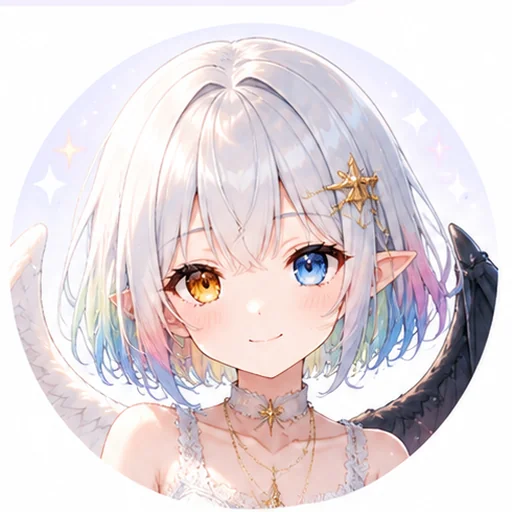
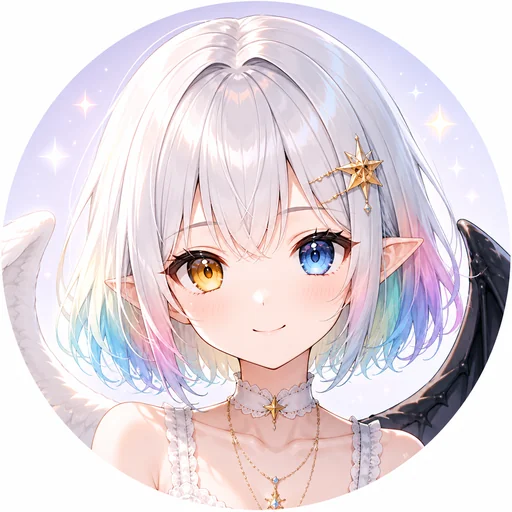
Phase17: ケイオスちゃんの表情アイコン5種類を追加
ご提供いただいた5枚の表情イラスト(通常/笑顔/考える/応援/安心)を
使い、ケイオスちゃん本人の発言に隣接する丸アイコンを場面に応じて
切り替えるようにした。

- img/koufuku/kaosu-face-{normal,smile,thinking,cheer,relax}.webp
  を追加(各512x512、約40〜46KB)。normalは今回いただいたより統一感の
  あるトリミングのものに差し替え、他4枚も同じ構図・サイズで揃えた。
- 固定メッセージ(今日のつながり/今日の幸せ設計/未来への小さな一歩/
  未来の芽/各画面の空状態/最近のわたし/わたしへのヒント)は、
  ご指示の「HTML側でdata-kaosu-expressionを指定する方法を優先」に
  従い、該当imgのsrc/data-kaosu-expression属性を直接書き換えるだけの
  静的な割り当てにした。
- 状況によって変わる箇所は最小限のJSで動的に切り替え:
  ・「今のあなたへ」: 深夜帯はrelax、傾向に気づけた時はsmile、
    それ以外はnormal(キーワード判定ではなく、既存の時間帯/カテゴリ
    分岐をそのまま利用)
  ・「今日の一歩」: 提案時はnormal、やってみた直後はcheer、
    気持ち選択後はsmile、「今日は何もしない」を選ぶとrelax
  切り替え用に setKaosuExpression() / setKaosuExpressionNear() という
  小さなヘルパーを2つ追加しただけで、既存の描画関数の構造は変えていない。
- 話し方設定(koufukuAiSpeechStyleV1)とは完全に独立させ、話し方×表情の
  どの組み合わせでも同じ画像をそのまま使える構造にした(値の保存は
  行わず、表情は毎回の描画で決めるだけの一時状態)。
- 名前登録オンボーディングのアバター(56px、kaosu.png)は対象外のまま
  維持。ヒーロー画像(kaosu-home.webp)・IndexedDB・既存localStorage
  キー・下部ナビ・既存ページ構造は変更していない。
- 将来sad/surprise/sleepy等を追加する場合はkaosu-face-{expression}.webp
  を置いて呼び出すだけで拡張できる構造をコメントで明記した。

Playwrightで、5種類すべてが404なく表示されること、顔アイコンが
円形表示・object-fit:coverのまま崩れていないこと、375px幅で全画面
横スクロールなし、下部ナビ崩れなし、各画面で意図した表情が表示される
こと、標準語/関西弁/博多弁のいずれとも組み合わせて正常動作すること、
リロード後の話し方設定・名前・ワクワクデータ・IndexedDB(DB名/
バージョン/ストア名)の維持、ヒーロー画像と名前登録オンボーディングが
変更されていないことを確認した。既存の呼び名登録機能のテスト
(A〜R相当)も再実行し、回帰がないことを確認した。

diff --git a/koufuku-ai.html b/koufuku-ai.html
@@ -433,7 +433,7 @@ textarea.field-input{ resize:none; }
         <p class="mind-trend-line" id="homeConnectionText"></p>
         <div class="kaosu-row" style="margin-top:12px; margin-bottom:10px;">
           <div class="kaosu-avatar" style="width:45px;height:45px">
-            <img src="img/koufuku/kaosu-face-normal.webp" data-kaosu-expression="normal" alt="ケイオスちゃん" onerror="this.classList.add('noimg')">
+            <img src="img/koufuku/kaosu-face-smile.webp" data-kaosu-expression="smile" alt="ケイオスちゃん" onerror="this.classList.add('noimg')">
             <div class="kaosu-fallback"><span class="eyes"><i></i><i></i></span><span class="mouth"></span><span class="blush l"></span><span class="blush r"></span></div>
           </div>
           <div class="speech-bubble" id="homeConnectionKaosu" style="font-size:13px;"></div>
@@ -476,7 +476,7 @@ textarea.field-input{ resize:none; }
         </div>
         <div class="kaosu-row" id="reflectResponseRow" style="display:none; margin-top:10px; margin-bottom:0;">
           <div class="kaosu-avatar" style="width:45px;height:45px">
-            <img src="img/koufuku/kaosu-face-normal.webp" data-kaosu-expression="normal" alt="ケイオスちゃん" onerror="this.classList.add('noimg')">
+            <img src="img/koufuku/kaosu-face-thinking.webp" data-kaosu-expression="thinking" alt="ケイオスちゃん" onerror="this.classList.add('noimg')">
             <div class="kaosu-fallback"><span class="eyes"><i></i><i></i></span><span class="mouth"></span><span class="blush l"></span><span class="blush r"></span></div>
           </div>
           <div class="speech-bubble" id="reflectResponseText" style="font-size:13px;"></div>
@@ -497,7 +497,7 @@ textarea.field-input{ resize:none; }
       <div class="wakuwaku-grid" id="wakuwakuGrid"></div>
       <div class="wakuwaku-empty" id="wakuwakuEmpty" style="display:none;">
         <div class="kaosu-avatar" style="width:72px;height:72px">
-          <img src="img/koufuku/kaosu-face-normal.webp" data-kaosu-expression="normal" alt="ケイオスちゃん" onerror="this.classList.add('noimg')">
+          <img src="img/koufuku/kaosu-face-smile.webp" data-kaosu-expression="smile" alt="ケイオスちゃん" onerror="this.classList.add('noimg')">
           <div class="kaosu-fallback"><span class="eyes"><i></i><i></i></span><span class="mouth"></span><span class="blush l"></span><span class="blush r"></span></div>
         </div>
         <div class="speech-bubble" id="wakuwakuEmptyMessage"></div>
@@ -514,7 +514,7 @@ textarea.field-input{ resize:none; }
 
       <div class="mind-empty" id="futureEmpty" style="display:none;">
         <div class="kaosu-avatar" style="width:72px;height:72px">
-          <img src="img/koufuku/kaosu-face-normal.webp" data-kaosu-expression="normal" alt="ケイオスちゃん" onerror="this.classList.add('noimg')">
+          <img src="img/koufuku/kaosu-face-thinking.webp" data-kaosu-expression="thinking" alt="ケイオスちゃん" onerror="this.classList.add('noimg')">
           <div class="kaosu-fallback"><span class="eyes"><i></i><i></i></span><span class="mouth"></span><span class="blush l"></span><span class="blush r"></span></div>
         </div>
         <div class="speech-bubble" id="futureEmptyMessage"></div>
@@ -537,7 +537,7 @@ textarea.field-input{ resize:none; }
           <div class="card-label">未来への小さな一歩</div>
           <div class="kaosu-row" style="margin-bottom:0;">
             <div class="kaosu-avatar" style="width:48px;height:48px">
-              <img src="img/koufuku/kaosu-face-normal.webp" data-kaosu-expression="normal" alt="ケイオスちゃん" onerror="this.classList.add('noimg')">
+              <img src="img/koufuku/kaosu-face-thinking.webp" data-kaosu-expression="thinking" alt="ケイオスちゃん" onerror="this.classList.add('noimg')">
               <div class="kaosu-fallback"><span class="eyes"><i></i><i></i></span><span class="mouth"></span><span class="blush l"></span><span class="blush r"></span></div>
             </div>
             <div class="speech-bubble" id="futureHint"></div>
@@ -549,7 +549,7 @@ textarea.field-input{ resize:none; }
           <div id="futureSproutBody"></div>
           <div class="kaosu-row" style="margin-top:12px; margin-bottom:0;">
             <div class="kaosu-avatar" style="width:48px;height:48px">
-              <img src="img/koufuku/kaosu-face-normal.webp" data-kaosu-expression="normal" alt="ケイオスちゃん" onerror="this.classList.add('noimg')">
+              <img src="img/koufuku/kaosu-face-smile.webp" data-kaosu-expression="smile" alt="ケイオスちゃん" onerror="this.classList.add('noimg')">
               <div class="kaosu-fallback"><span class="eyes"><i></i><i></i></span><span class="mouth"></span><span class="blush l"></span><span class="blush r"></span></div>
             </div>
             <div class="speech-bubble" id="futureSproutKaosu"></div>
@@ -610,7 +610,7 @@ textarea.field-input{ resize:none; }
 
       <div class="mind-empty" id="mindEmpty" style="display:none;">
         <div class="kaosu-avatar" style="width:72px;height:72px">
-          <img src="img/koufuku/kaosu-face-normal.webp" data-kaosu-expression="normal" alt="ケイオスちゃん" onerror="this.classList.add('noimg')">
+          <img src="img/koufuku/kaosu-face-thinking.webp" data-kaosu-expression="thinking" alt="ケイオスちゃん" onerror="this.classList.add('noimg')">
           <div class="kaosu-fallback"><span class="eyes"><i></i><i></i></span><span class="mouth"></span><span class="blush l"></span><span class="blush r"></span></div>
         </div>
         <div class="speech-bubble" id="mindEmptyMessage"></div>
@@ -649,7 +649,7 @@ textarea.field-input{ resize:none; }
           <div id="recentMeBody"></div>
           <div class="kaosu-row" style="margin-top:12px; margin-bottom:0;">
             <div class="kaosu-avatar" style="width:45px;height:45px">
-              <img src="img/koufuku/kaosu-face-normal.webp" data-kaosu-expression="normal" alt="ケイオスちゃん" onerror="this.classList.add('noimg')">
+              <img src="img/koufuku/kaosu-face-thinking.webp" data-kaosu-expression="thinking" alt="ケイオスちゃん" onerror="this.classList.add('noimg')">
               <div class="kaosu-fallback"><span class="eyes"><i></i><i></i></span><span class="mouth"></span><span class="blush l"></span><span class="blush r"></span></div>
             </div>
             <div class="speech-bubble" id="recentMeKaosu" style="font-size:13px;"></div>
@@ -658,7 +658,7 @@ textarea.field-input{ resize:none; }
 
         <div class="kaosu-row">
           <div class="kaosu-avatar" style="width:58px;height:58px">
-            <img src="img/koufuku/kaosu-face-normal.webp" data-kaosu-expression="normal" alt="ケイオスちゃん" onerror="this.classList.add('noimg')">
+            <img src="img/koufuku/kaosu-face-thinking.webp" data-kaosu-expression="thinking" alt="ケイオスちゃん" onerror="this.classList.add('noimg')">
             <div class="kaosu-fallback"><span class="eyes"><i></i><i></i></span><span class="mouth"></span><span class="blush l"></span><span class="blush r"></span></div>
           </div>
           <div class="speech-bubble" id="mindHint"></div>
@@ -1016,6 +1016,31 @@ function sp(obj){
   return obj[style] != null ? obj[style] : obj.standard;
 }
 
+/* =========================================================
+   Phase17: ケイオスちゃんの表情アイコン切り替え
+   - 「何を話すか」(k3/sp)・「どんな口調か」(speechStyle)・
+     「どんな表情か」(expression)を互いに独立させ、自由に組み合わせ
+     られるようにする。話し方設定(koufukuAiSpeechStyleV1)には一切
+     触れず、保存も行わない(表情は毎回の描画で決めるだけの一時状態)。
+   - 画像は img/koufuku/kaosu-face-{expression}.webp という命名規則
+     のまま。新しい表情を追加する場合はここに1行足すだけでよい。
+   ========================================================= */
+const KAOSU_EXPRESSIONS = ["normal", "smile", "thinking", "cheer", "relax"];
+function setKaosuExpression(imgEl, expression){
+  if(!imgEl || !KAOSU_EXPRESSIONS.includes(expression)) return;
+  if(imgEl.dataset.kaosuExpression === expression) return;
+  imgEl.dataset.kaosuExpression = expression;
+  imgEl.src = `img/koufuku/kaosu-face-${expression}.webp`;
+  imgEl.classList.remove("noimg");
+}
+/* 指定した「発言テキスト要素」と同じ.kaosu-row内にある顔アイコンを探して表情を変える */
+function setKaosuExpressionNear(textElId, expression){
+  const textEl = document.getElementById(textElId);
+  const row = textEl && textEl.closest(".kaosu-row");
+  const img = row && row.querySelector("img[data-kaosu-expression]");
+  setKaosuExpression(img, expression);
+}
+
 function renderSpeechStyleSetting(){
   const root = document.getElementById("speechStyleRow");
   if(!root) return;
@@ -1267,13 +1292,18 @@ function renderHomeNowCard(){
   const entries = wakuwakuEntries || [];
   const category = entries.length > 0 ? computeRecentMeCategory(entries) : null;
 
+  /* 表情はキーワード判定ではなく、既存の分岐(時間帯/カテゴリの有無)
+     だけで決める。深夜は安心(relax)、あなたの傾向に気づけたときは
+     共感(smile)、それ以外の通常の時間帯案内はnormal。 */
   if(category && category.key && HOME_NOW_CATEGORY_MESSAGES[category.key]){
     el.innerHTML = sp(HOME_NOW_CATEGORY_MESSAGES[category.key][band]);
+    setKaosuExpressionNear("homeNowMessage", "smile");
     return;
   }
 
   const pool = HOME_NOW_MESSAGES[band];
   el.innerHTML = sp(pool[Math.floor(Math.random() * pool.length)]);
+  setKaosuExpressionNear("homeNowMessage", band === "midnight" ? "relax" : "normal");
 }
 
 /* =========================================================
@@ -2198,6 +2228,7 @@ function renderFeelingGrid(){
       stepPendingLogId = null;
       document.getElementById("stepFeelingPrompt").style.display = "none";
       document.getElementById("stepKaosuMessage").textContent = sp(opt.feedback);
+      setKaosuExpressionNear("stepKaosuMessage", "smile");
       renderMindView();
     });
     root.appendChild(btn);
@@ -2263,6 +2294,7 @@ function renderStepView(){
   if(stepEntryPointer >= entries.length) stepEntryPointer = 0;
 
   document.getElementById("stepKaosuMessage").textContent = sp(STEP_KAOSU_DEFAULT);
+  setKaosuExpressionNear("stepKaosuMessage", "normal");
   renderStepChoice();
 }
 
@@ -2279,6 +2311,7 @@ document.getElementById("btnStepTried").addEventListener("click", () => {
   stepPendingLogId = record.id;
   const msg = sp(STEP_TRIED_MESSAGES[Math.floor(Math.random() * STEP_TRIED_MESSAGES.length)]);
   document.getElementById("stepKaosuMessage").textContent = msg;
+  setKaosuExpressionNear("stepKaosuMessage", "cheer");
   renderFeelingGrid();
   document.getElementById("stepFeelingPrompt").style.display = "block";
 });
@@ -2286,6 +2319,7 @@ document.getElementById("btnStepTried").addEventListener("click", () => {
 document.getElementById("btnStepSmaller").addEventListener("click", () => {
   stepLevel = "smaller";
   document.getElementById("stepKaosuMessage").textContent = sp(STEP_KAOSU_DEFAULT);
+  setKaosuExpressionNear("stepKaosuMessage", "normal");
   renderStepChoice();
 });
 
@@ -2296,12 +2330,14 @@ document.getElementById("btnStepAnotherP5").addEventListener("click", () => {
   }
   stepLevel = "normal";
   document.getElementById("stepKaosuMessage").textContent = sp(STEP_KAOSU_DEFAULT);
+  setKaosuExpressionNear("stepKaosuMessage", "normal");
   renderStepChoice();
 });
 
 document.getElementById("btnStepNothing").addEventListener("click", () => {
   hideFeelingPrompt();
   document.getElementById("stepKaosuMessage").textContent = sp(STEP_NOTHING_MESSAGE);
+  setKaosuExpressionNear("stepKaosuMessage", "relax");
 });
 
 /* =========================================================
